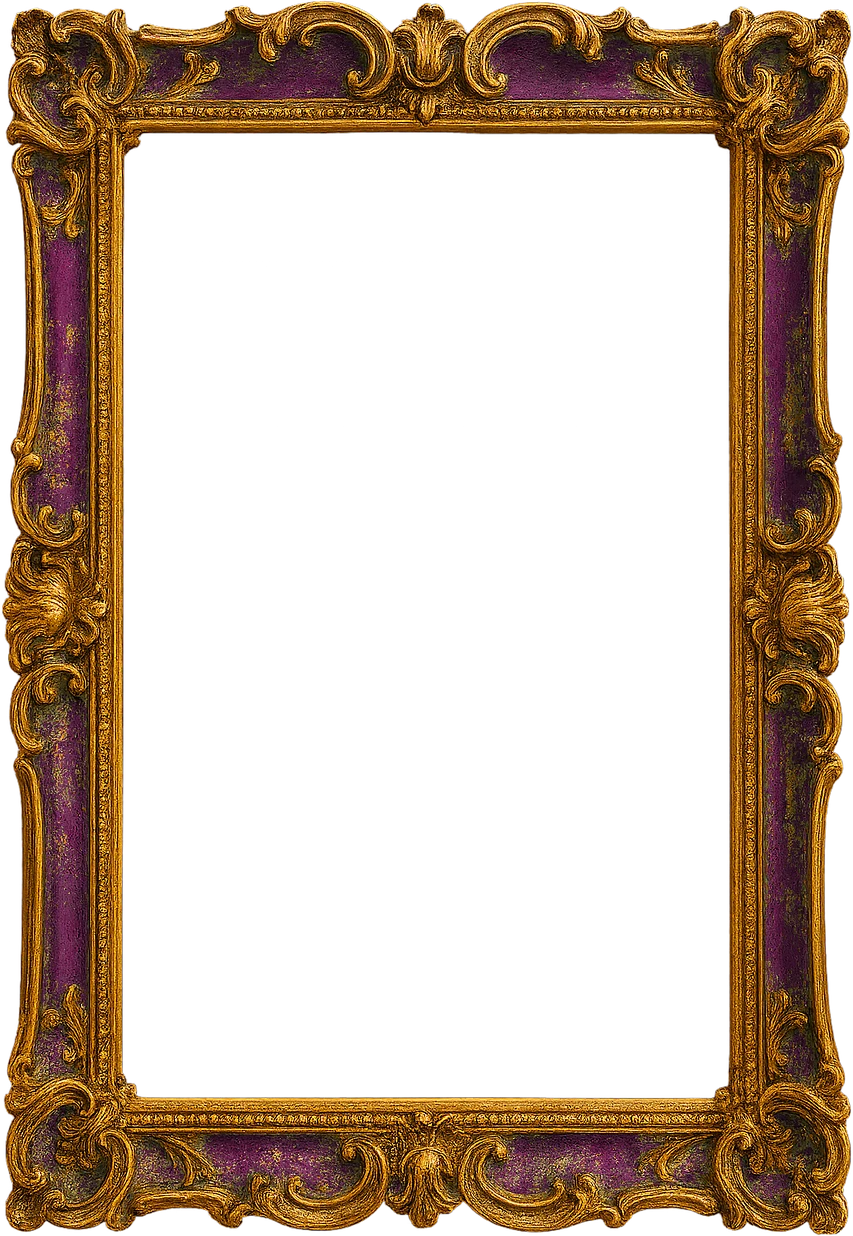
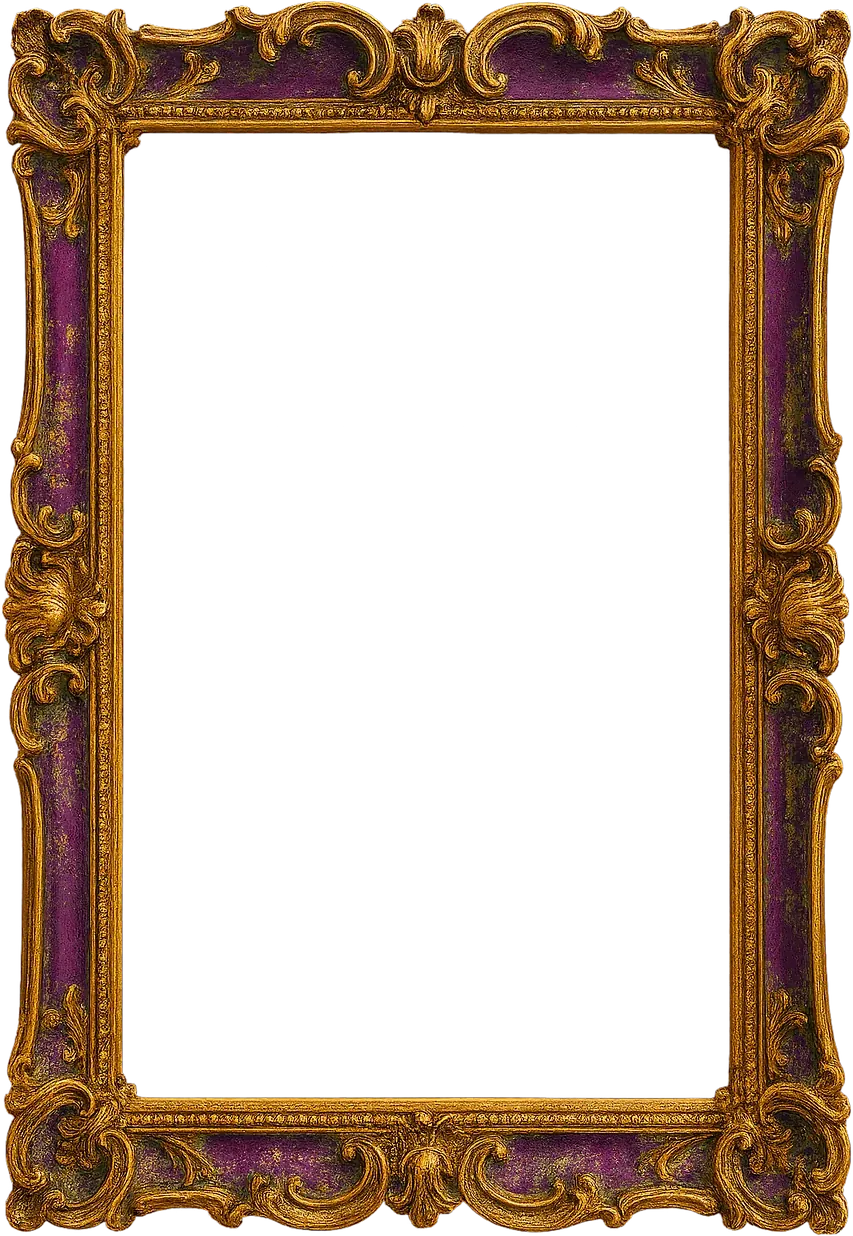
Lighter images: Bella cover and references as WebP, recompressed About frame, sized portraits

Changed region(s): [[0.0914, 0.8916, 0.1219, 0.9223]]

diff --git a/src/components/case-study/ReferencePlayground.tsx b/src/components/case-study/ReferencePlayground.tsx
@@ -8,7 +8,7 @@ import { useRef, useState, type KeyboardEvent, type PointerEvent } from "react";
  * to the front. With the keyboard, focus one and move it with the arrow keys. Positions are
  * kept as a share of the free space, so the layout holds when the card resizes.
  * A wide pose can take a wider box (`wide`, a multiple of the size).
- * Pictures live in public/images/bella/references/{slug}.png; until one exists, a soft
+ * Pictures live in public/images/bella/references/{slug}.webp; until one exists, a soft
  * stand-in with the name holds its place.
  */
 type Ref = { name: string; slug: string; x: number; y: number; wide?: number };
@@ -84,7 +84,7 @@ export default function ReferencePlayground({ items }: { items: Ref[] }) {
             ) : (
               // eslint-disable-next-line @next/next/no-img-element
               <img loading="lazy" decoding="async"
-                src={`/images/bella/references/${slug}.png`}
+                src={`/images/bella/references/${slug}.webp`}
                 alt=""
                 draggable={false}
                 onError={() => setMissing((m) => ({ ...m, [slug]: true }))}

diff --git a/src/content/works.ts b/src/content/works.ts
@@ -63,7 +63,7 @@ export const featuredWorks: FeaturedWork[] = [
     title: "Designing Bella, the desk bell that hosts this portfolio, in Claude Code",
     description:
       "A front-desk bell in the navbar that counts how long you actually spend here.",
-    image: "/images/bella/cover.png",
+    image: "/images/bella/cover.webp",
     imageAlt: "Bella the desk bell in eight moods: idle, ringing, reading, watching, dozing, celebrating, surprised and champion",
     href: "/works/bella",
     layout: "standard",

diff --git a/src/app/works/bella/page.tsx b/src/app/works/bella/page.tsx
@@ -586,7 +586,7 @@ export default function BellaPage() {
       <Hero
         title="Designing Bella, the desk bell that hosts this portfolio, in Claude Code"
         date="October 2026"
-        image="/images/bella/cover.png"
+        image="/images/bella/cover.webp"
       />
       <Overview />
       <Research />

diff --git a/src/components/Hero.tsx b/src/components/Hero.tsx
@@ -33,6 +33,7 @@ export default function Hero() {
             width={1144}
             height={1199}
             priority
+            sizes="(min-width: 1024px) 502px, (min-width: 768px) 400px, 100vw"
             className="absolute inset-0 h-full w-full object-contain object-bottom"
           />
         </div>

diff --git a/src/components/About.tsx b/src/components/About.tsx
@@ -29,6 +29,7 @@ export default function About() {
               src="/images/portrait.png"
               alt="Ashmik Ragesh"
               fill
+              sizes="(min-width: 1024px) 320px, 100vw"
               className="object-cover object-top"
             />
           </div>
